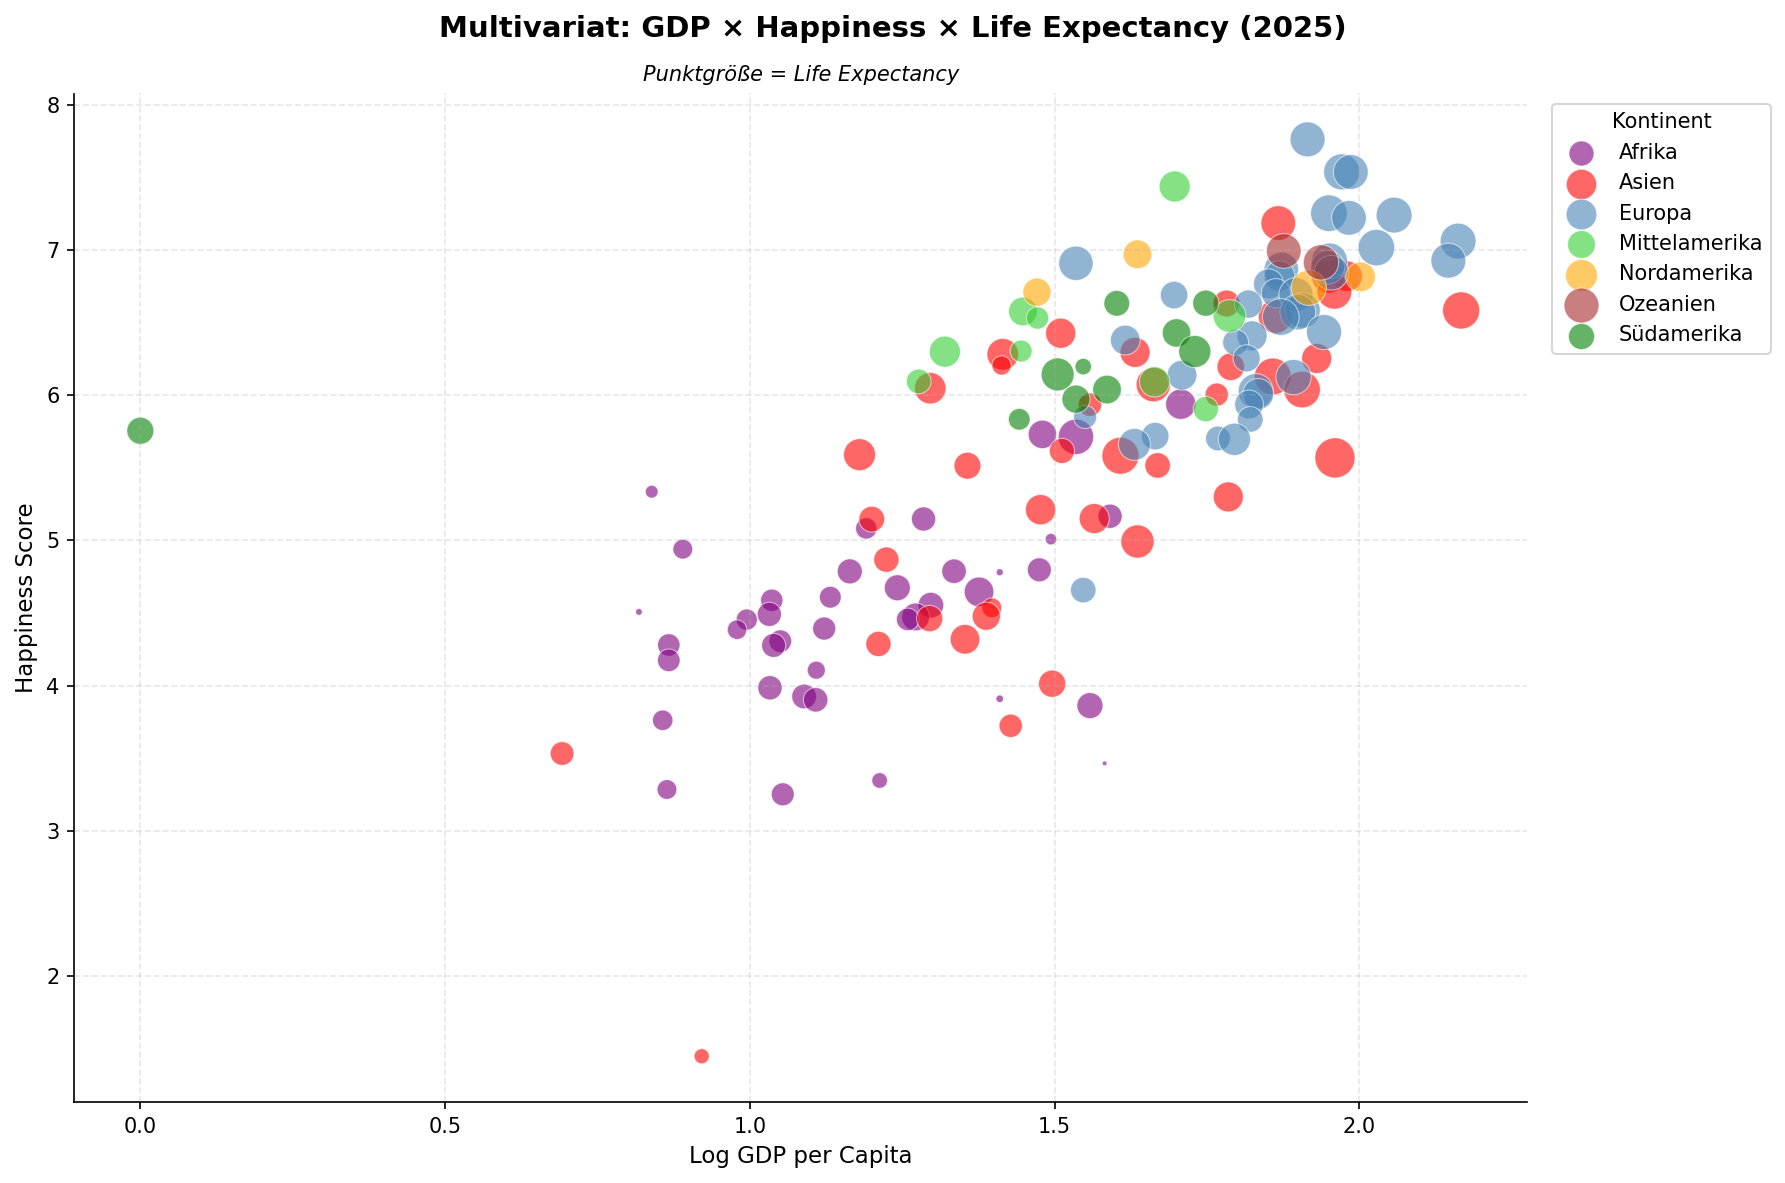
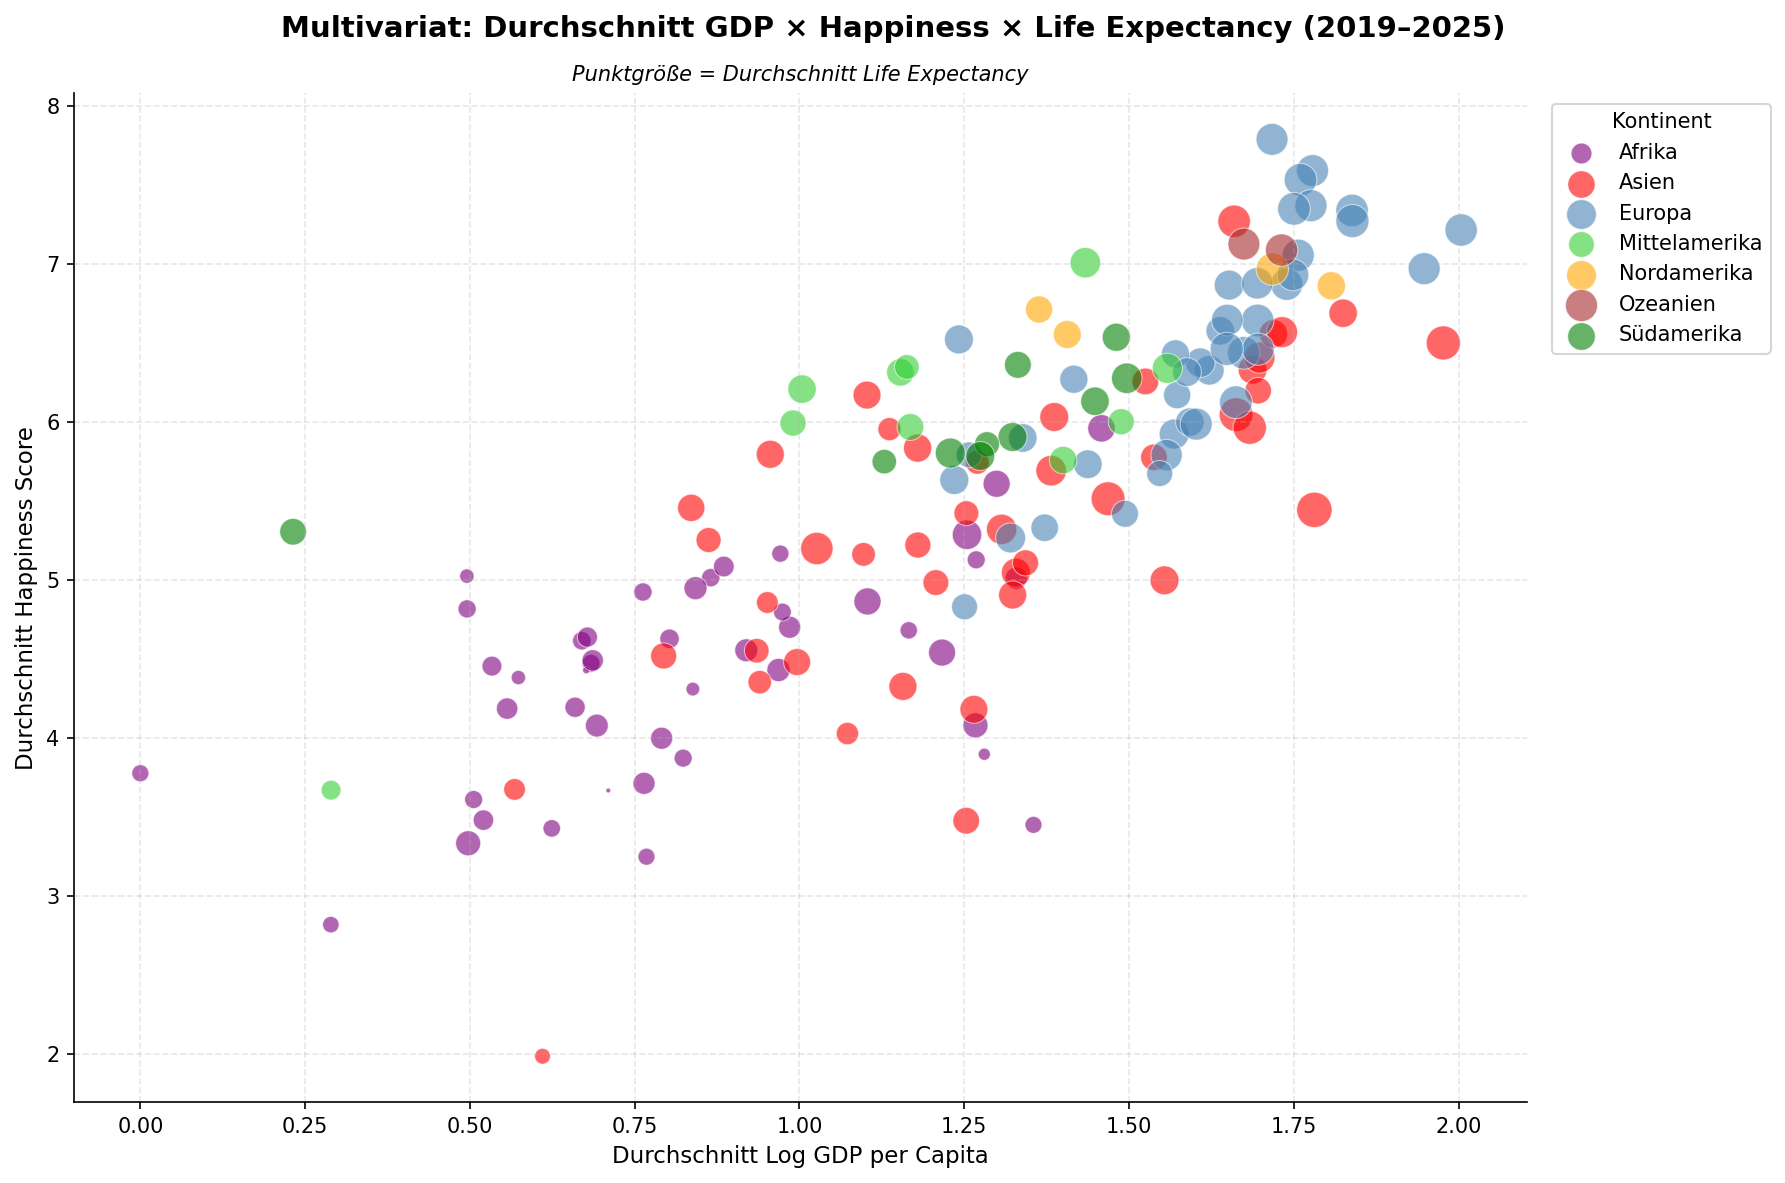
averaged plot 4 from 2019 to 2025

diff --git a/Test_Happy/data.py b/Test_Happy/data.py
@@ -250,14 +250,37 @@ plt.show()
 # PLOT 11: Multivariat – Scatter GDP × Happiness × Kontinent (Bubble)
 # ═══════════════════════════════════════════════════════════════════════════════
 fig, ax = plt.subplots(figsize=(12, 8))
-fig.suptitle('Multivariat: GDP × Happiness × Life Expectancy (2025)',
-             fontsize=14, fontweight='bold')
 
-df_2025 = df[df['year'] == 2025].dropna(
-    subset=['explained_log_gdp_per_capita', 'happiness_score',
-            'explained_healthy_life_expectancy'])
+fig.suptitle(
+    'Multivariat: Durchschnitt GDP × Happiness × Life Expectancy (2019–2025)',
+    fontsize=14,
+    fontweight='bold'
+)
 
-for kontinent, gruppe in df_2025.groupby('kontinent'):
+# Zeitraum filtern
+df_avg = df[
+    (df['year'] >= 2019) & (df['year'] <= 2025)
+].dropna(
+    subset=[
+        'explained_log_gdp_per_capita',
+        'happiness_score',
+        'explained_healthy_life_expectancy'
+    ]
+)
+
+# Mittelwerte pro Land berechnen
+df_avg = (
+    df_avg
+    .groupby(['country', 'kontinent'], as_index=False)
+    .agg({
+        'explained_log_gdp_per_capita': 'mean',
+        'happiness_score': 'mean',
+        'explained_healthy_life_expectancy': 'mean'
+    })
+)
+
+# Plot
+for kontinent, gruppe in df_avg.groupby('kontinent'):
     ax.scatter(
         gruppe['explained_log_gdp_per_capita'],
         gruppe['happiness_score'],
@@ -265,19 +288,29 @@ for kontinent, gruppe in df_2025.groupby('kontinent'):
         color=FARBEN.get(kontinent, 'gray'),
         alpha=0.6,
         label=kontinent,
-        edgecolors='white', linewidth=0.5
+        edgecolors='white',
+        linewidth=0.5
     )
 
-ax.set_xlabel('Log GDP per Capita', fontsize=11)
-ax.set_ylabel('Happiness Score', fontsize=11)
-ax.set_title('Punktgröße = Life Expectancy', fontsize=10, style='italic')
+ax.set_xlabel('Durchschnitt Log GDP per Capita', fontsize=11)
+ax.set_ylabel('Durchschnitt Happiness Score', fontsize=11)
+ax.set_title('Punktgröße = Durchschnitt Life Expectancy', fontsize=10, style='italic')
+
 ax.legend(title='Kontinent', bbox_to_anchor=(1.01, 1), loc='upper left')
+
 ax.grid(linestyle='--', alpha=0.3)
+
 ax.spines['top'].set_visible(False)
 ax.spines['right'].set_visible(False)
 
 plt.tight_layout()
-plt.savefig(BASE_DIR / 'plot4_multivariat_bubble.png', dpi=150, bbox_inches='tight')
+
+plt.savefig(
+    BASE_DIR / 'plot4_multivariat_bubble_avg_2019_2025.png',
+    dpi=150,
+    bbox_inches='tight'
+)
+
 plt.show()
 
 # ═══════════════════════════════════════════════════════════════════════════════